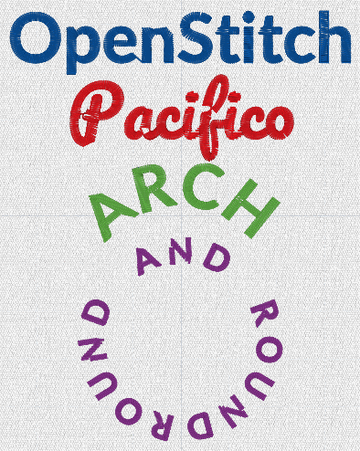
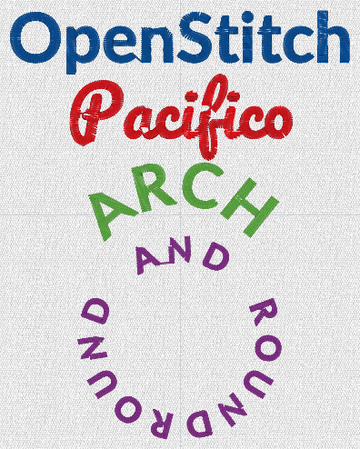
Kit: regenerate fonts-and-text after #773
#773 joins satin N/W/Z pieces without trims, which moved lettering/fonts-and-text.pes;
sew_kit --check on cceb6b11 names only that file. Regenerated with its preview; sew_check
passes.

diff --git a/examples/sew/README.md b/examples/sew/README.md
@@ -395,6 +395,8 @@ Fills whose rows ripple as a sine, height and length in mm: 2 and 16, 3 and 10, 
 
 <img src="previews/wave-fill.png" height="180" alt="Realistic view of fills/wave-fill.pes">
 
+Threads, in sewing order: 405 Blue, 800 Red, 509 Leaf Green, 208 Orange, 620 Magenta, 406 Ultra Marine.
+
 #### Maze fill (beyond PE-DESIGN)
 
 [`fills/maze-fill.pes`](fills/maze-fill.pes) · 100 × 100 mm hoop · 83.4 × 54.6 mm · 1,080 stitches · 6 trims · about 1.7 min
@@ -449,7 +451,7 @@ The fonts, Text Transform, text on a path and monograms.
 
 #### Lettering
 
-[`lettering/fonts-and-text.pes`](lettering/fonts-and-text.pes) · 100 × 100 mm hoop · 71 × 89.7 mm · 3,855 stitches · 46 trims · about 7.2 min
+[`lettering/fonts-and-text.pes`](lettering/fonts-and-text.pes) · 100 × 100 mm hoop · 71 × 89.7 mm · 3,838 stitches · 39 trims · about 6.8 min
 
 Lato Bold and Pacifico, a Text Transform arch, and text spaced around a circle (text on a path).
 
